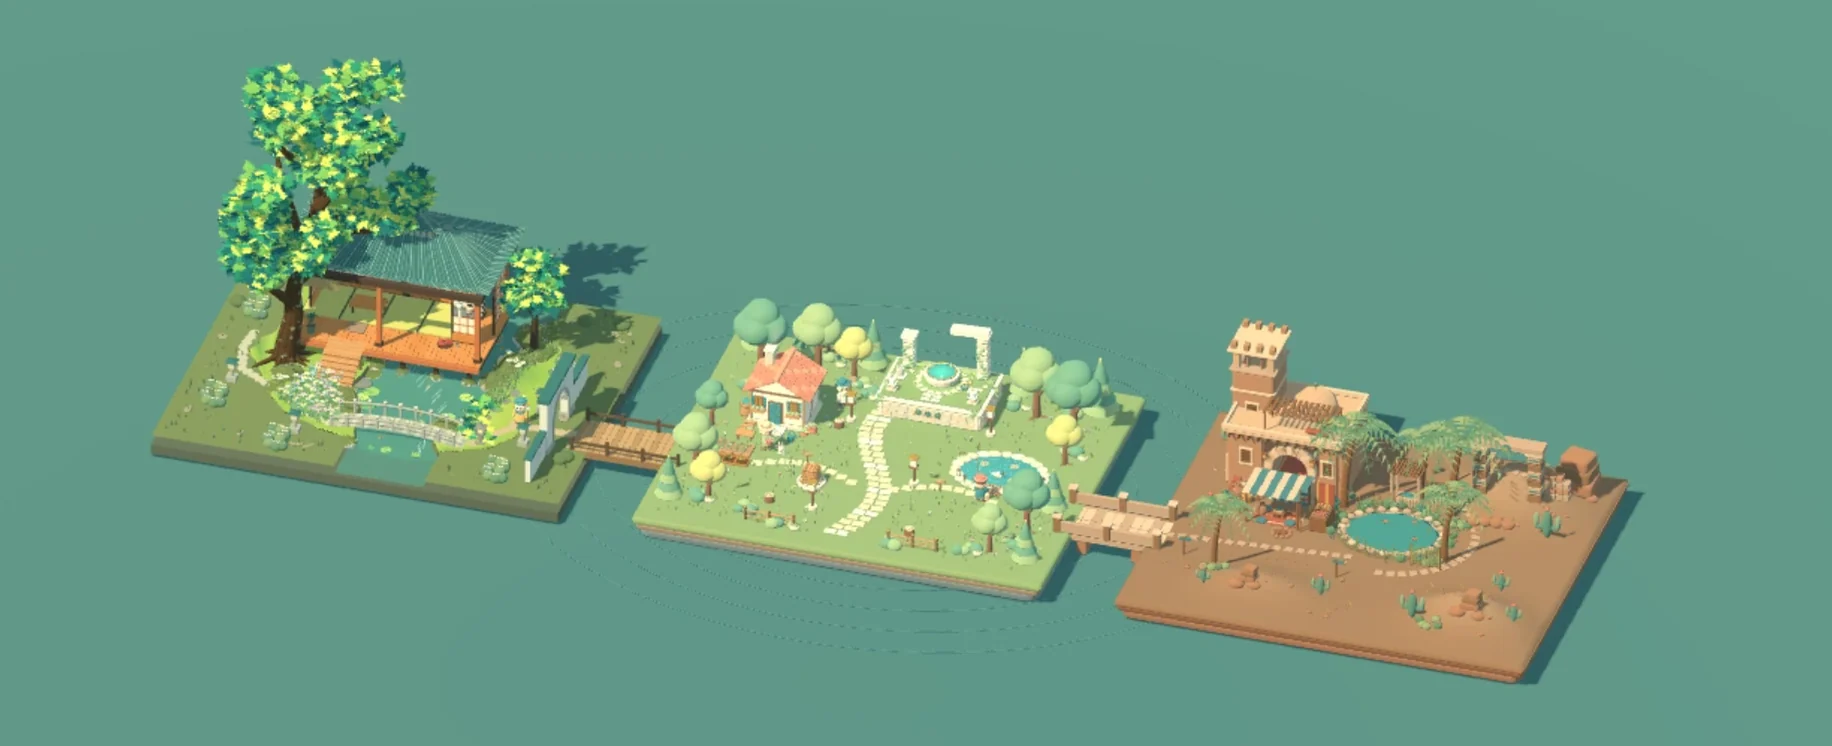
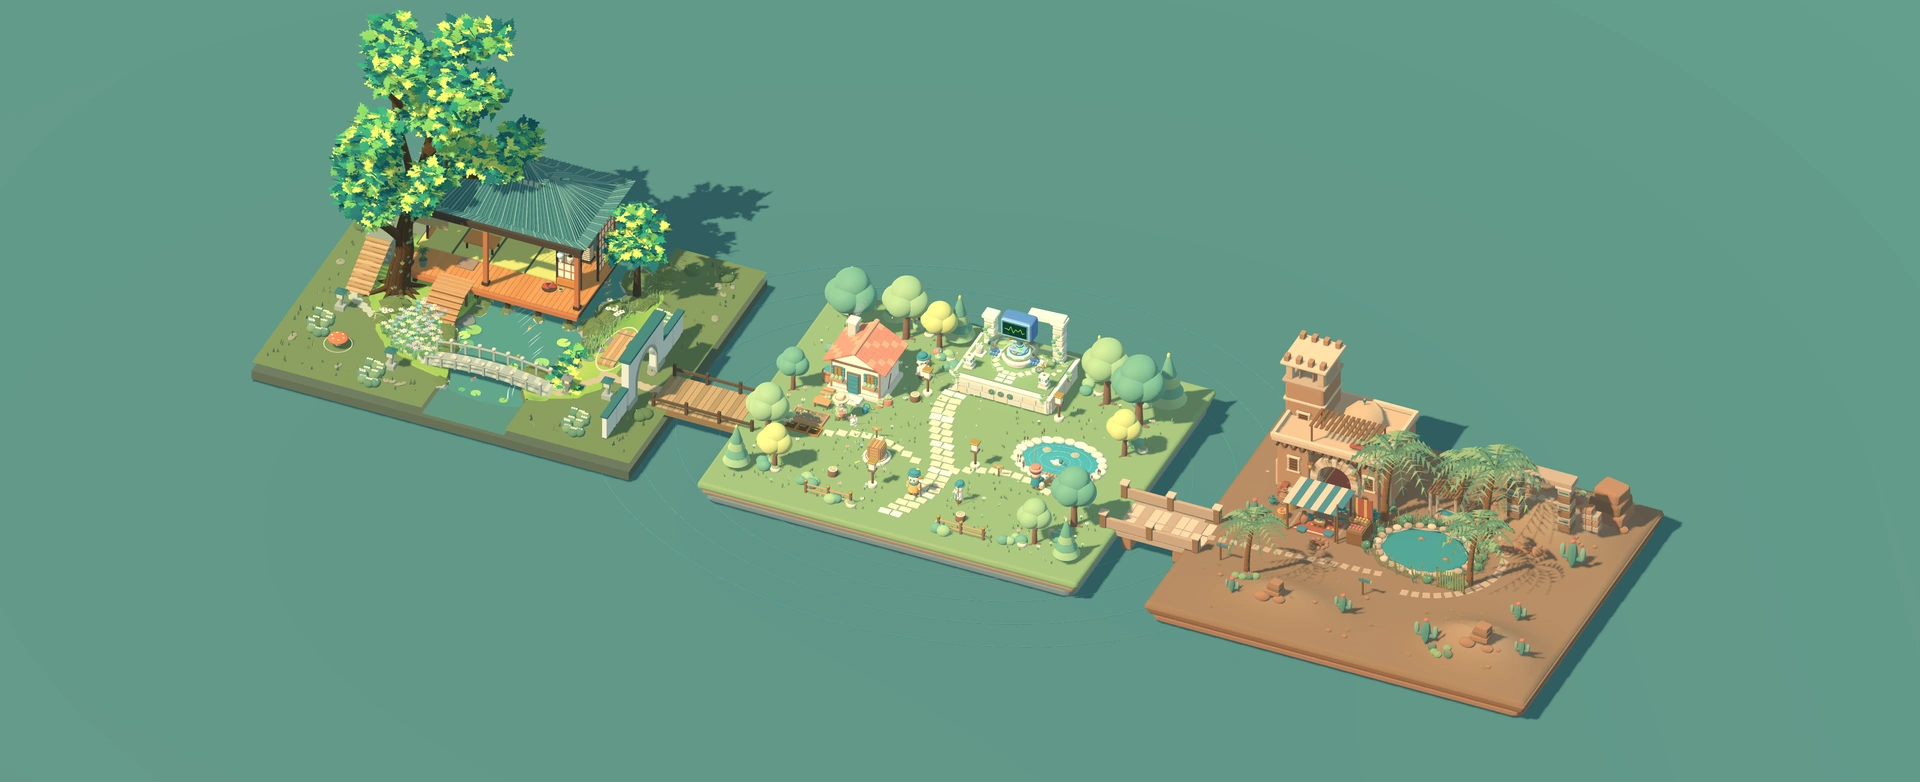
fix(world): 提升加载封面清晰度并适配屏幕尺寸 / Sharpen loading cover with responsive images

Changed region(s): [[0.0622, 0.0, 0.9023, 0.9249]]

diff --git a/games/mosslight/web/shell.html b/games/mosslight/web/shell.html
@@ -69,7 +69,7 @@
     <nav aria-label="世界选项"><button id="help" aria-label="操作指南">?</button><button id="fullscreen" aria-label="切换全屏">⛶</button></nav>
     <canvas id="canvas" width="1600" height="1000" tabindex="0" aria-label="苔光之屿游戏画面，使用 WASD 移动、空格跳跃">当前浏览器不支持画布，请使用新版 Chrome、Edge 或 Firefox。</canvas>
     <section id="gate" aria-label="进入游戏">
-      <img class="art" src="cover.webp" alt="溪间庭院、苔光之屿和晴沙绿洲，由石桥相连的三个世界地块" fetchpriority="high">
+      <img class="art" src="cover.webp?v=2" srcset="cover.webp?v=2 1920w, cover-2560.webp 2560w, cover-3840.webp 3840w" sizes="100vw" width="3840" height="1564" alt="溪间庭院、苔光之屿和晴沙绿洲，由石桥相连的三个世界地块" fetchpriority="high">
       <h1>agent-isles</h1>
       <div class="entry">
         <button id="start">进入世界</button>

diff --git a/games/mosslight/tools/encode_cover.py b/games/mosslight/tools/encode_cover.py
@@ -1,0 +1,15 @@
+"""Encode responsive covers from render_cover.gd's full-resolution PNG (Pillow)."""
+from pathlib import Path
+from PIL import Image
+
+root = Path(__file__).resolve().parents[1]
+source = Image.open(root / "build/cover-source.png").convert("RGB")
+if source.size != (3840, 1564):
+    raise ValueError("Render the 3840×1564 source with render_cover.gd first")
+for width, name in [(1920, "cover.webp"), (2560, "cover-2560.webp"), (3840, "cover-3840.webp")]:
+    image = source if width == source.width else source.resize(
+        (width, round(source.height * width / source.width)), Image.Resampling.LANCZOS
+    )
+    output = root / "web" / name
+    image.save(output, quality=95, method=6)
+    print(f"COVER_ENCODE: {name} {image.size} {output.stat().st_size} bytes")

diff --git a/games/mosslight/README.md b/games/mosslight/README.md
@@ -22,6 +22,8 @@ powershell -NoProfile -ExecutionPolicy Bypass -File tools/build_web.ps1
 
 若换电脑，先在 Godot 中安装 **4.7.2** 导出模板，或运行 `python tools/fetch_web_template.py`（仅下载官方归档中的两个 Web 单线程模板）。自定义引擎路径可通过 `-Godot '完整路径'` 传入构建脚本。
 
+更新加载封面时，在仓库根目录运行 `godot --path games/mosslight --script res://tools/render_cover.gd`（需要显卡渲染，不能加 `--headless`），再运行 `python games/mosslight/tools/encode_cover.py`（需要 Pillow）。前者从三岛场景渲染 3840×1564 的源图到忽略目录 `build/cover-source.png`，后者生成 1920、2560、3840 三档 WebP；网页通过 `srcset` 按屏幕宽度与像素密度选择。之后重新导出世界，两套 Web 导出脚本都会复制全部封面。
+
 将 **build/web/** 内全部文件部署到任意支持 HTTPS 的静态网站，保留文件之间的相对路径。构建脚本还会生成 **build/mosslight-web.zip**，可用于上传部署。可在现有网页中通过 iframe 嵌入：
 
 ```html

diff --git a/docs/construction-plan.md b/docs/construction-plan.md
@@ -4,6 +4,8 @@
 
 ## 产品目标
 
+高清加载封面（2026-09-13，已实现待验收）：从三岛场景重新渲染 3840×1564 源图，8× MSAA，生成 1920/2560/3840 三档高质量 WebP，页面按屏幕宽度与像素密度选择，更新旧图缓存 URL。已检查高清成图的细节与完整构图；Godot 渲染、编码和世界导出通过。3840 档约 469 KiB；浏览器实际选图与安装包待验收，未重新打包。再生成方法见 [世界说明](../games/mosslight/README.md)。
+
 隐藏开发者面板（2026-09-13，已实现待验收）：右下角五连击打开，可直接触发 Qiuner 剧情对白。Node 交互逻辑、Godot 暂停测试及世界导出通过，浏览器实测待验收。详见 [居民对话系统](dialogue-system.md)。
 
 Qiuner 抓取前注视（2026-09-13，已实现待验收）：显示器先看向玩家再伸臂，接送结束回正，详见 [居民对话系统](dialogue-system.md)。浏览器视觉待验收。
